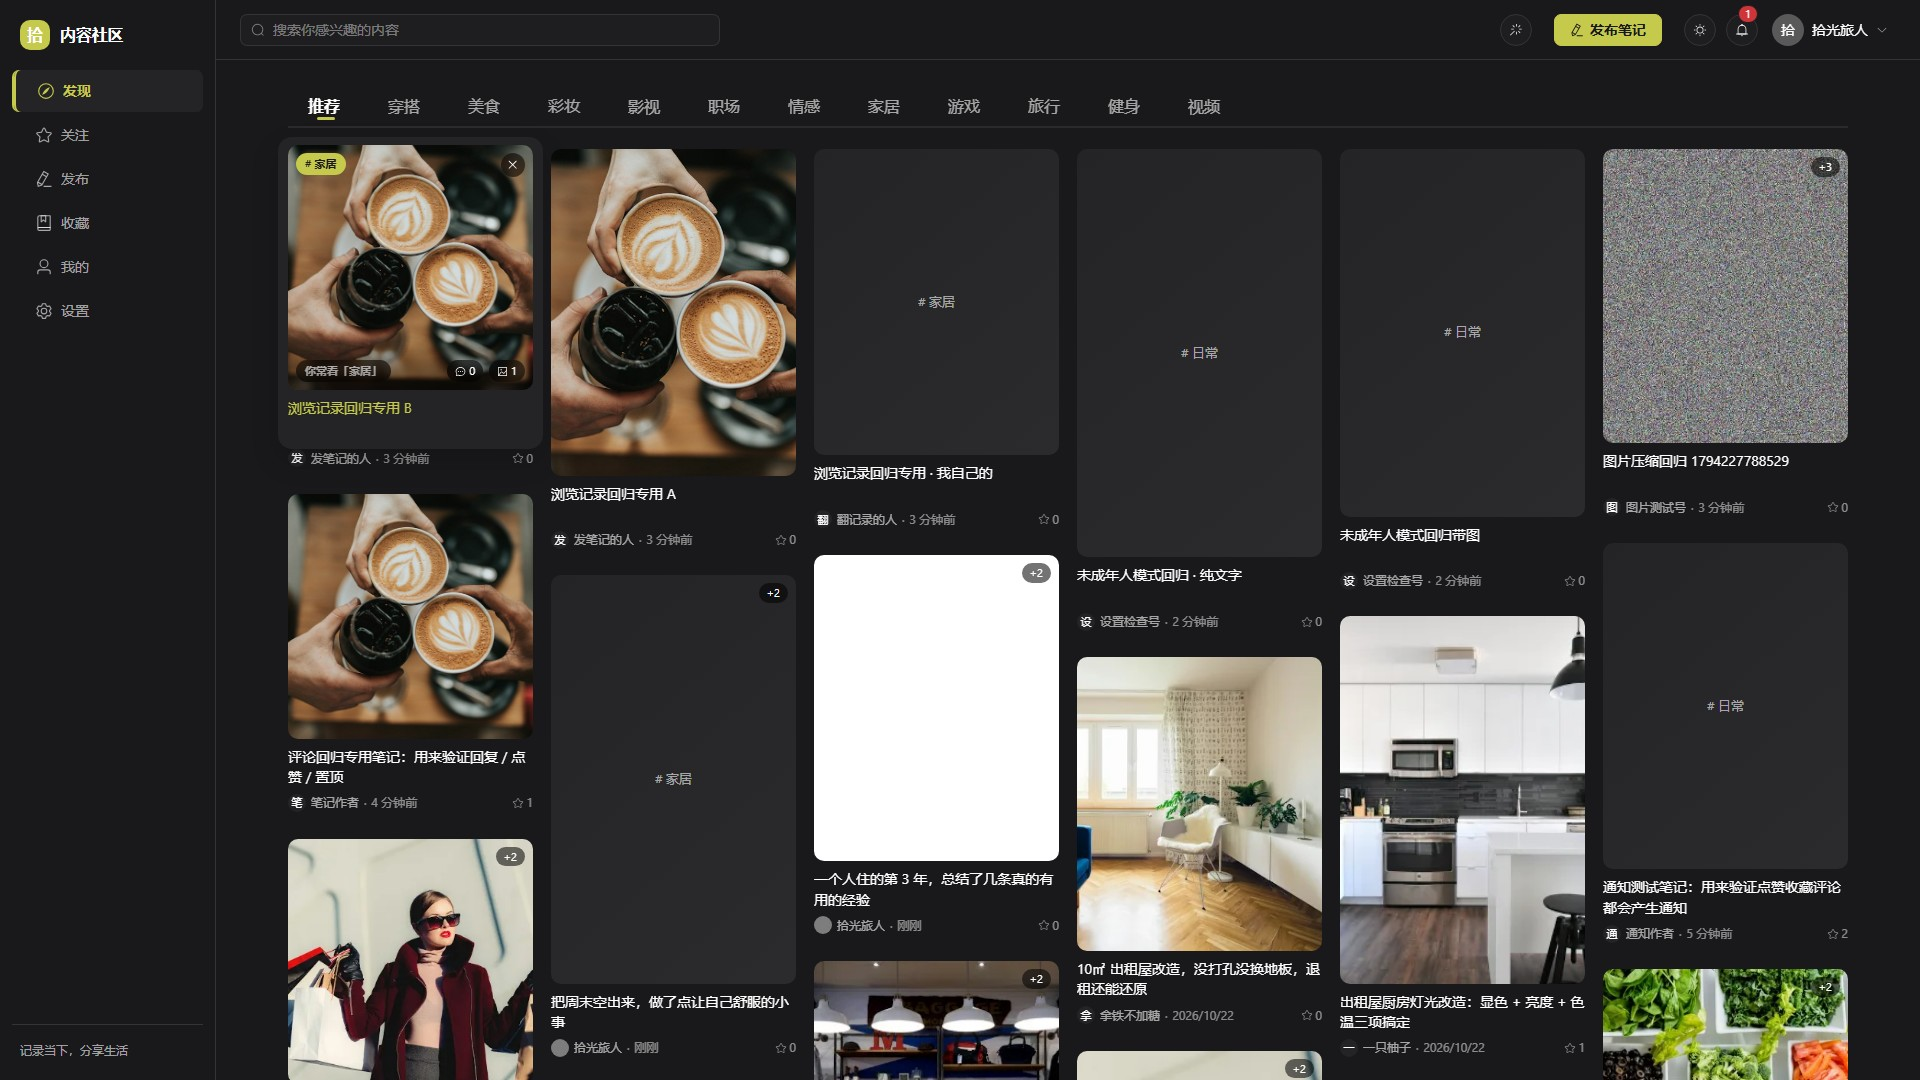
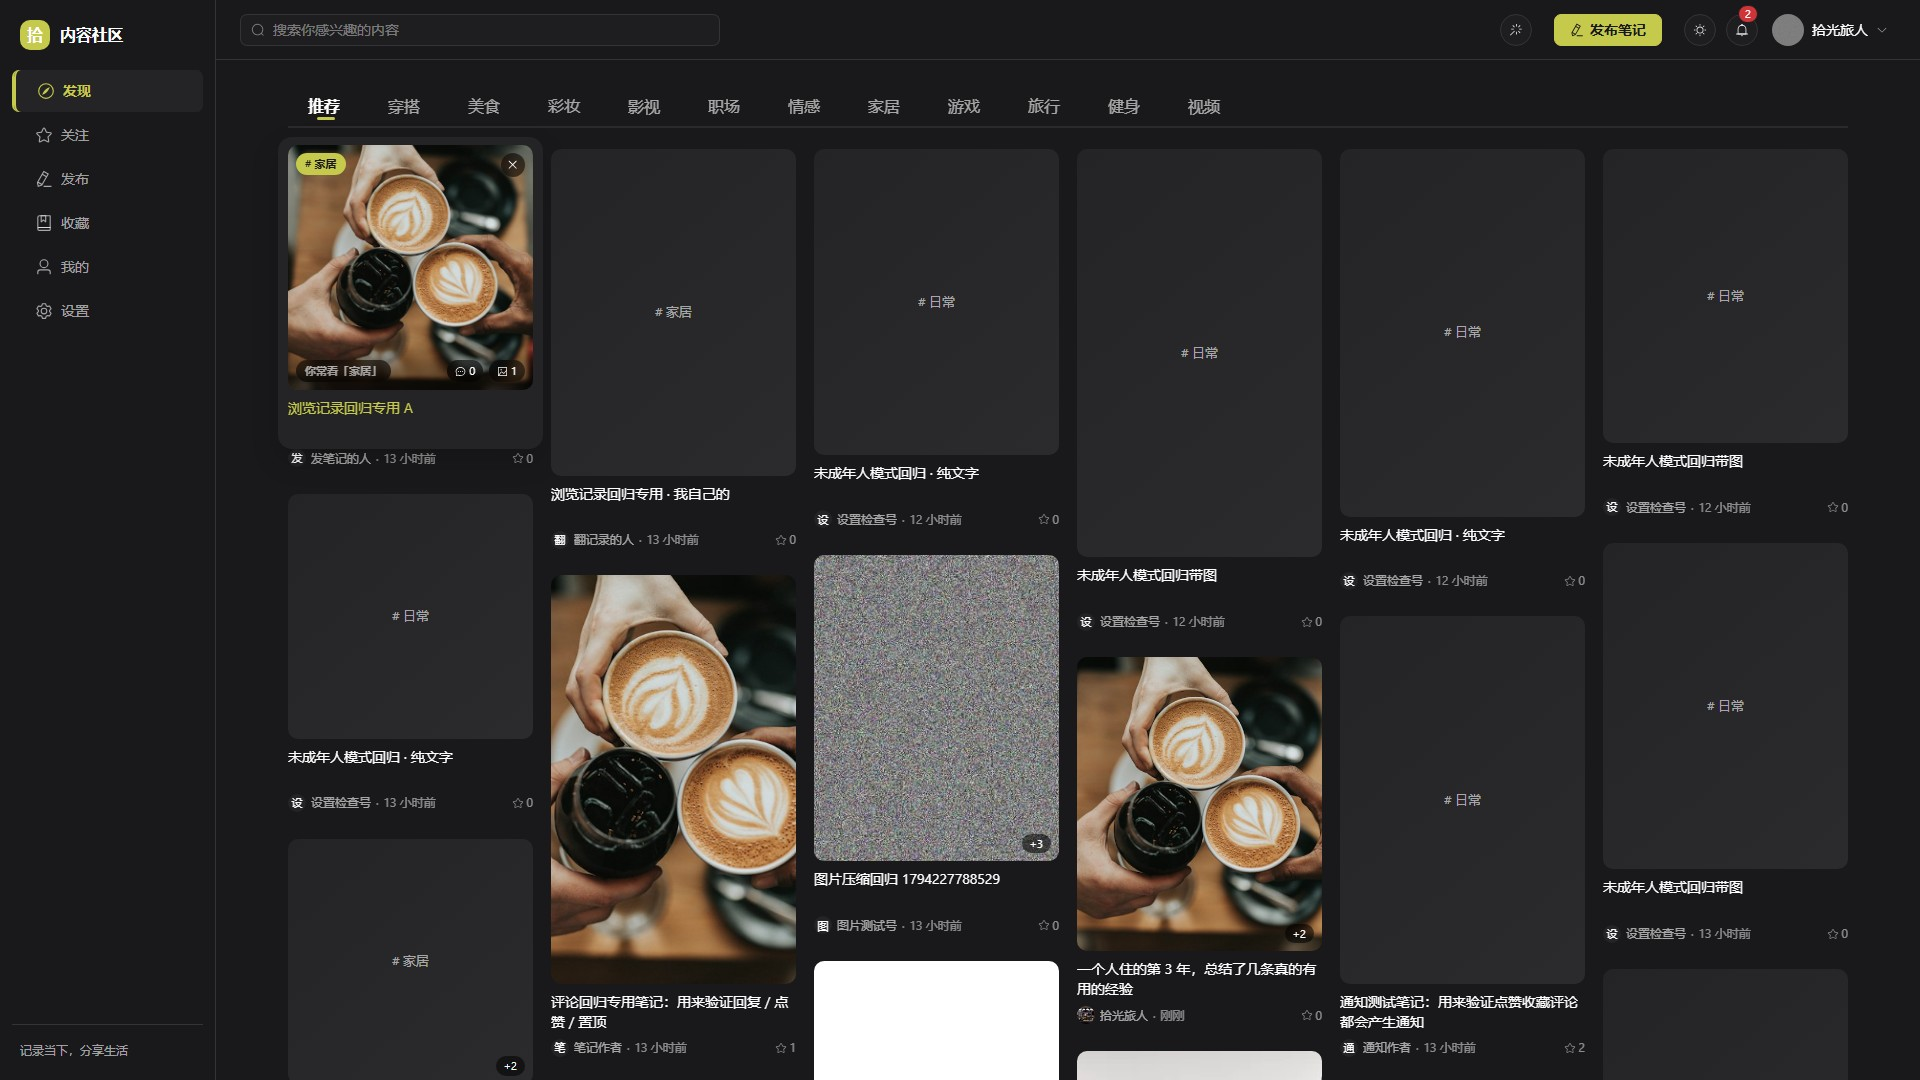
fix(card): feed 卡片右上角关闭 X 与多图 +N 角标重叠
count-badge(多图) 与 play-badge(视频) 原本定位在右上角

和 hover 才显形的 dismiss-btn(关闭/不感兴趣) 同一坐标

登录后推荐流的多图卡片上两者直接叠在一起

把两个信息角标挪到右下角，右上角独占给关闭按钮

顺手让信息角标 hover 时淡出，让位给右下角的话题预览胶囊

README 配图重拍以更新门禁哈希

diff --git a/client/src/components/PostMasonry.vue b/client/src/components/PostMasonry.vue
@@ -708,12 +708,13 @@ function markCoverBroken(postId: number) {
 .count-badge {
   position: absolute;
   right: 8px;
-  top: 8px;
+  bottom: 8px;
   padding: 1px 8px;
   border-radius: var(--radius-full);
   font-size: var(--fs-2xs);
   color: #fff;
   background: rgba(0, 0, 0, 0.55);
+  transition: opacity var(--dur-fast) var(--ease-out-expo);
 }
 
 /* 搜索命中的话题标签角标 */
@@ -733,7 +734,7 @@ function markCoverBroken(postId: number) {
 .play-badge {
   position: absolute;
   right: 8px;
-  top: 8px;
+  bottom: 8px;
   display: inline-flex;
   align-items: center;
   justify-content: center;
@@ -745,12 +746,21 @@ function markCoverBroken(postId: number) {
   backdrop-filter: blur(2px);
   /* 卡片 hover 时角标跟着放大 —— 参考动效里「卡片被拿起来」的同一套手感，
      封面 zoom 1.04、角标 1.1，差值让角标有浮出来的层次 */
-  transition: transform var(--dur-fast) var(--ease-out-expo);
+  transition:
+    transform var(--dur-fast) var(--ease-out-expo),
+    opacity var(--dur-fast) var(--ease-out-expo);
 }
 
 .card:hover .play-badge,
 .card:focus-visible .play-badge {
   transform: scale(1.1);
+}
+
+/* hover 时右下角要让位给「话题预览胶囊」（.peek），否则两者叠在右下角。
+   非 hover 时图数 / 视频标是常显信息，hover 时切换成话题提示。 */
+.card-wrap:hover .count-badge,
+.card-wrap:hover .play-badge {
+  opacity: 0;
 }
 
 /*
